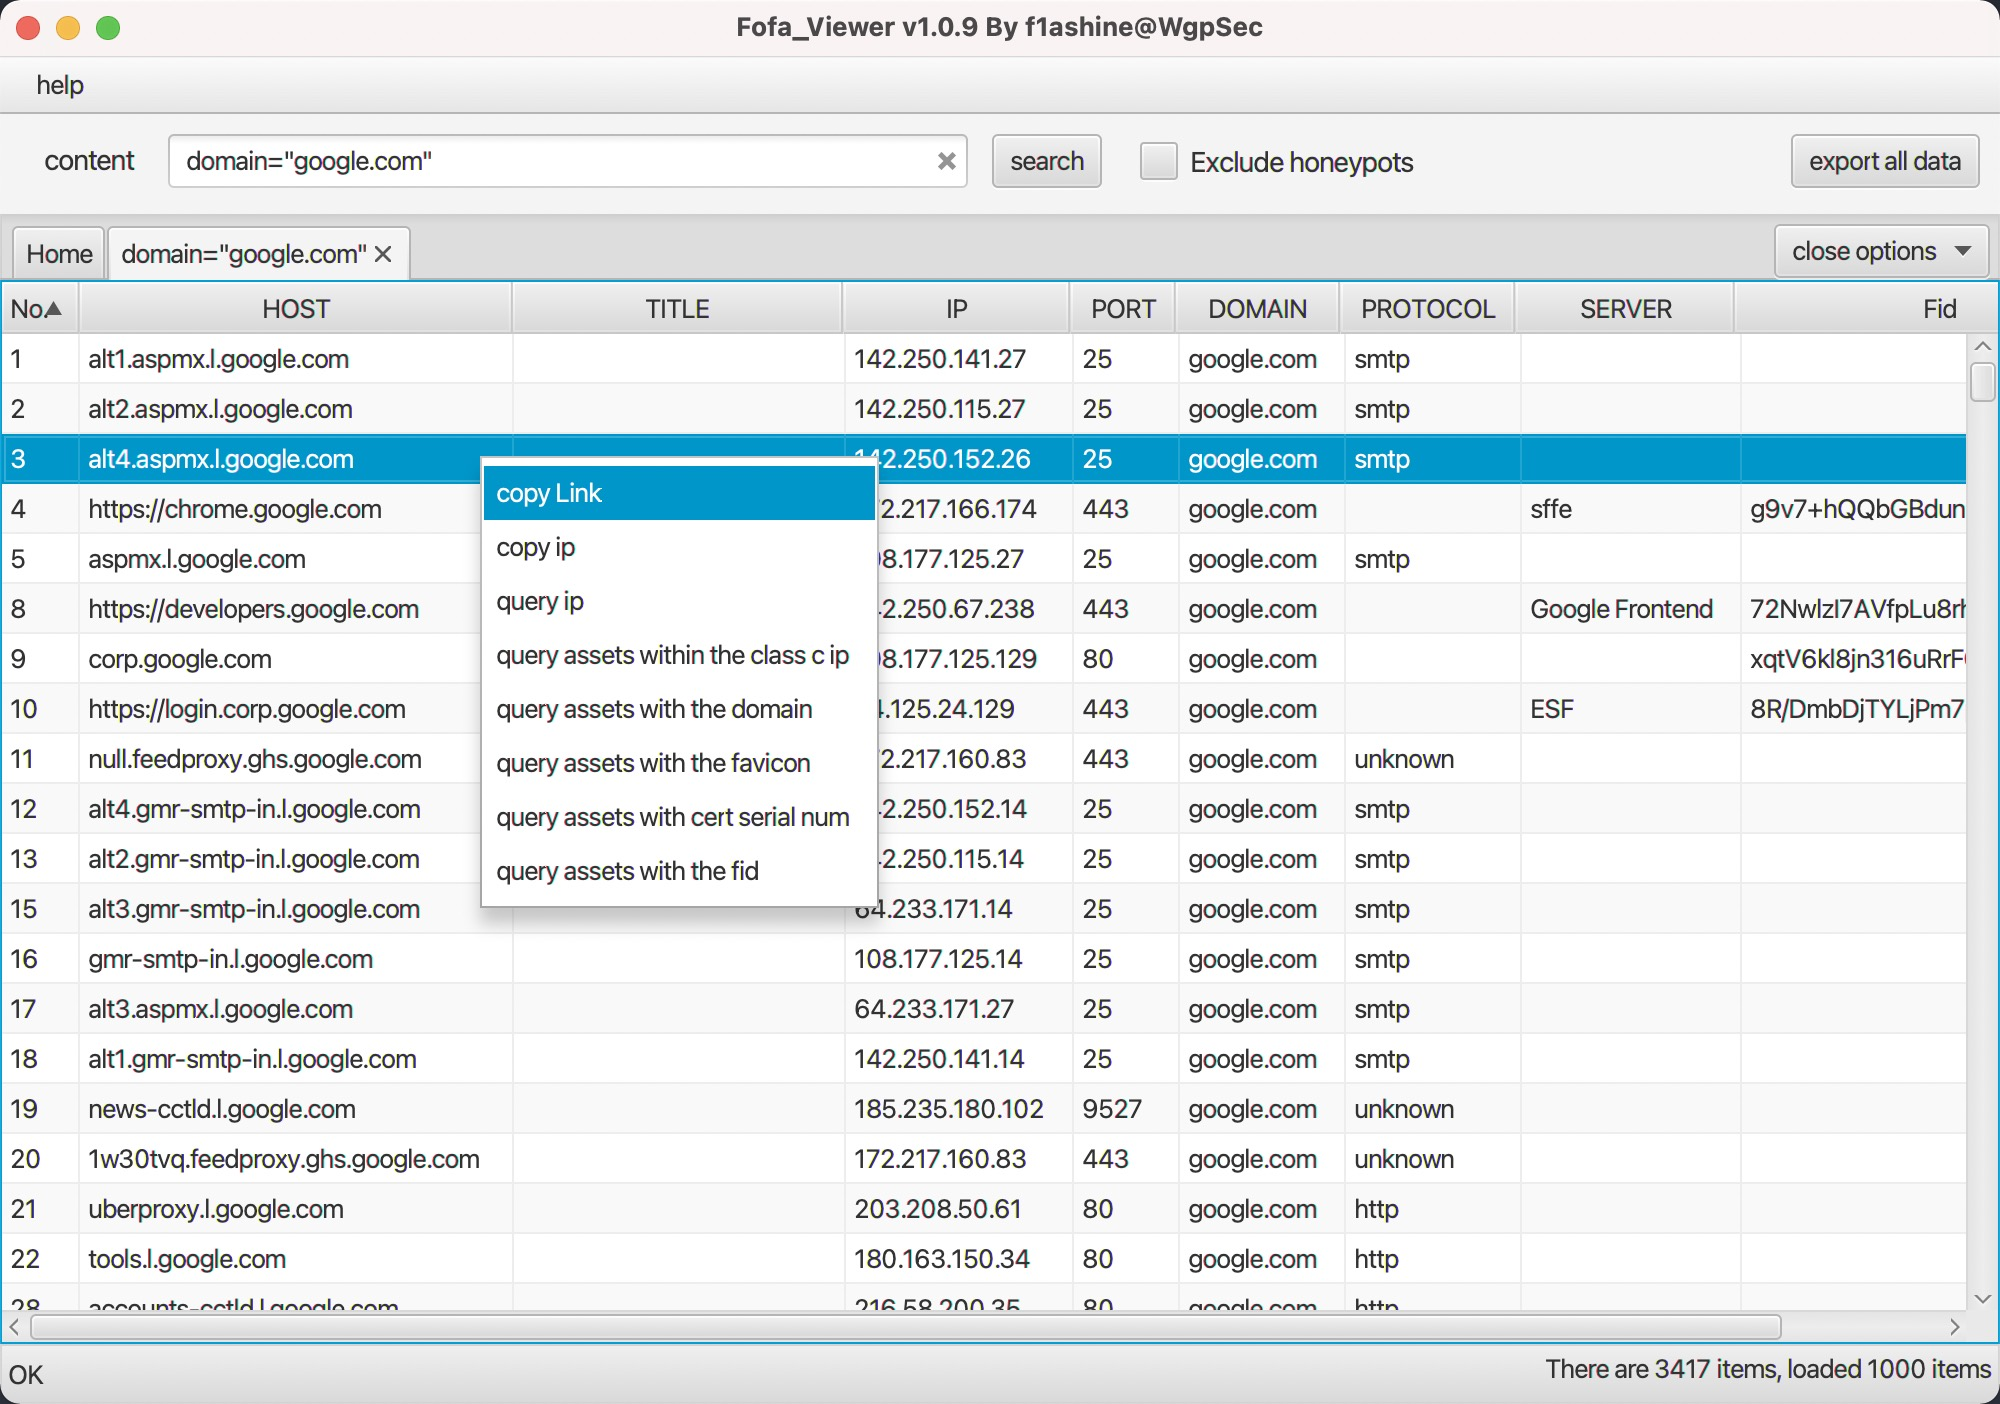
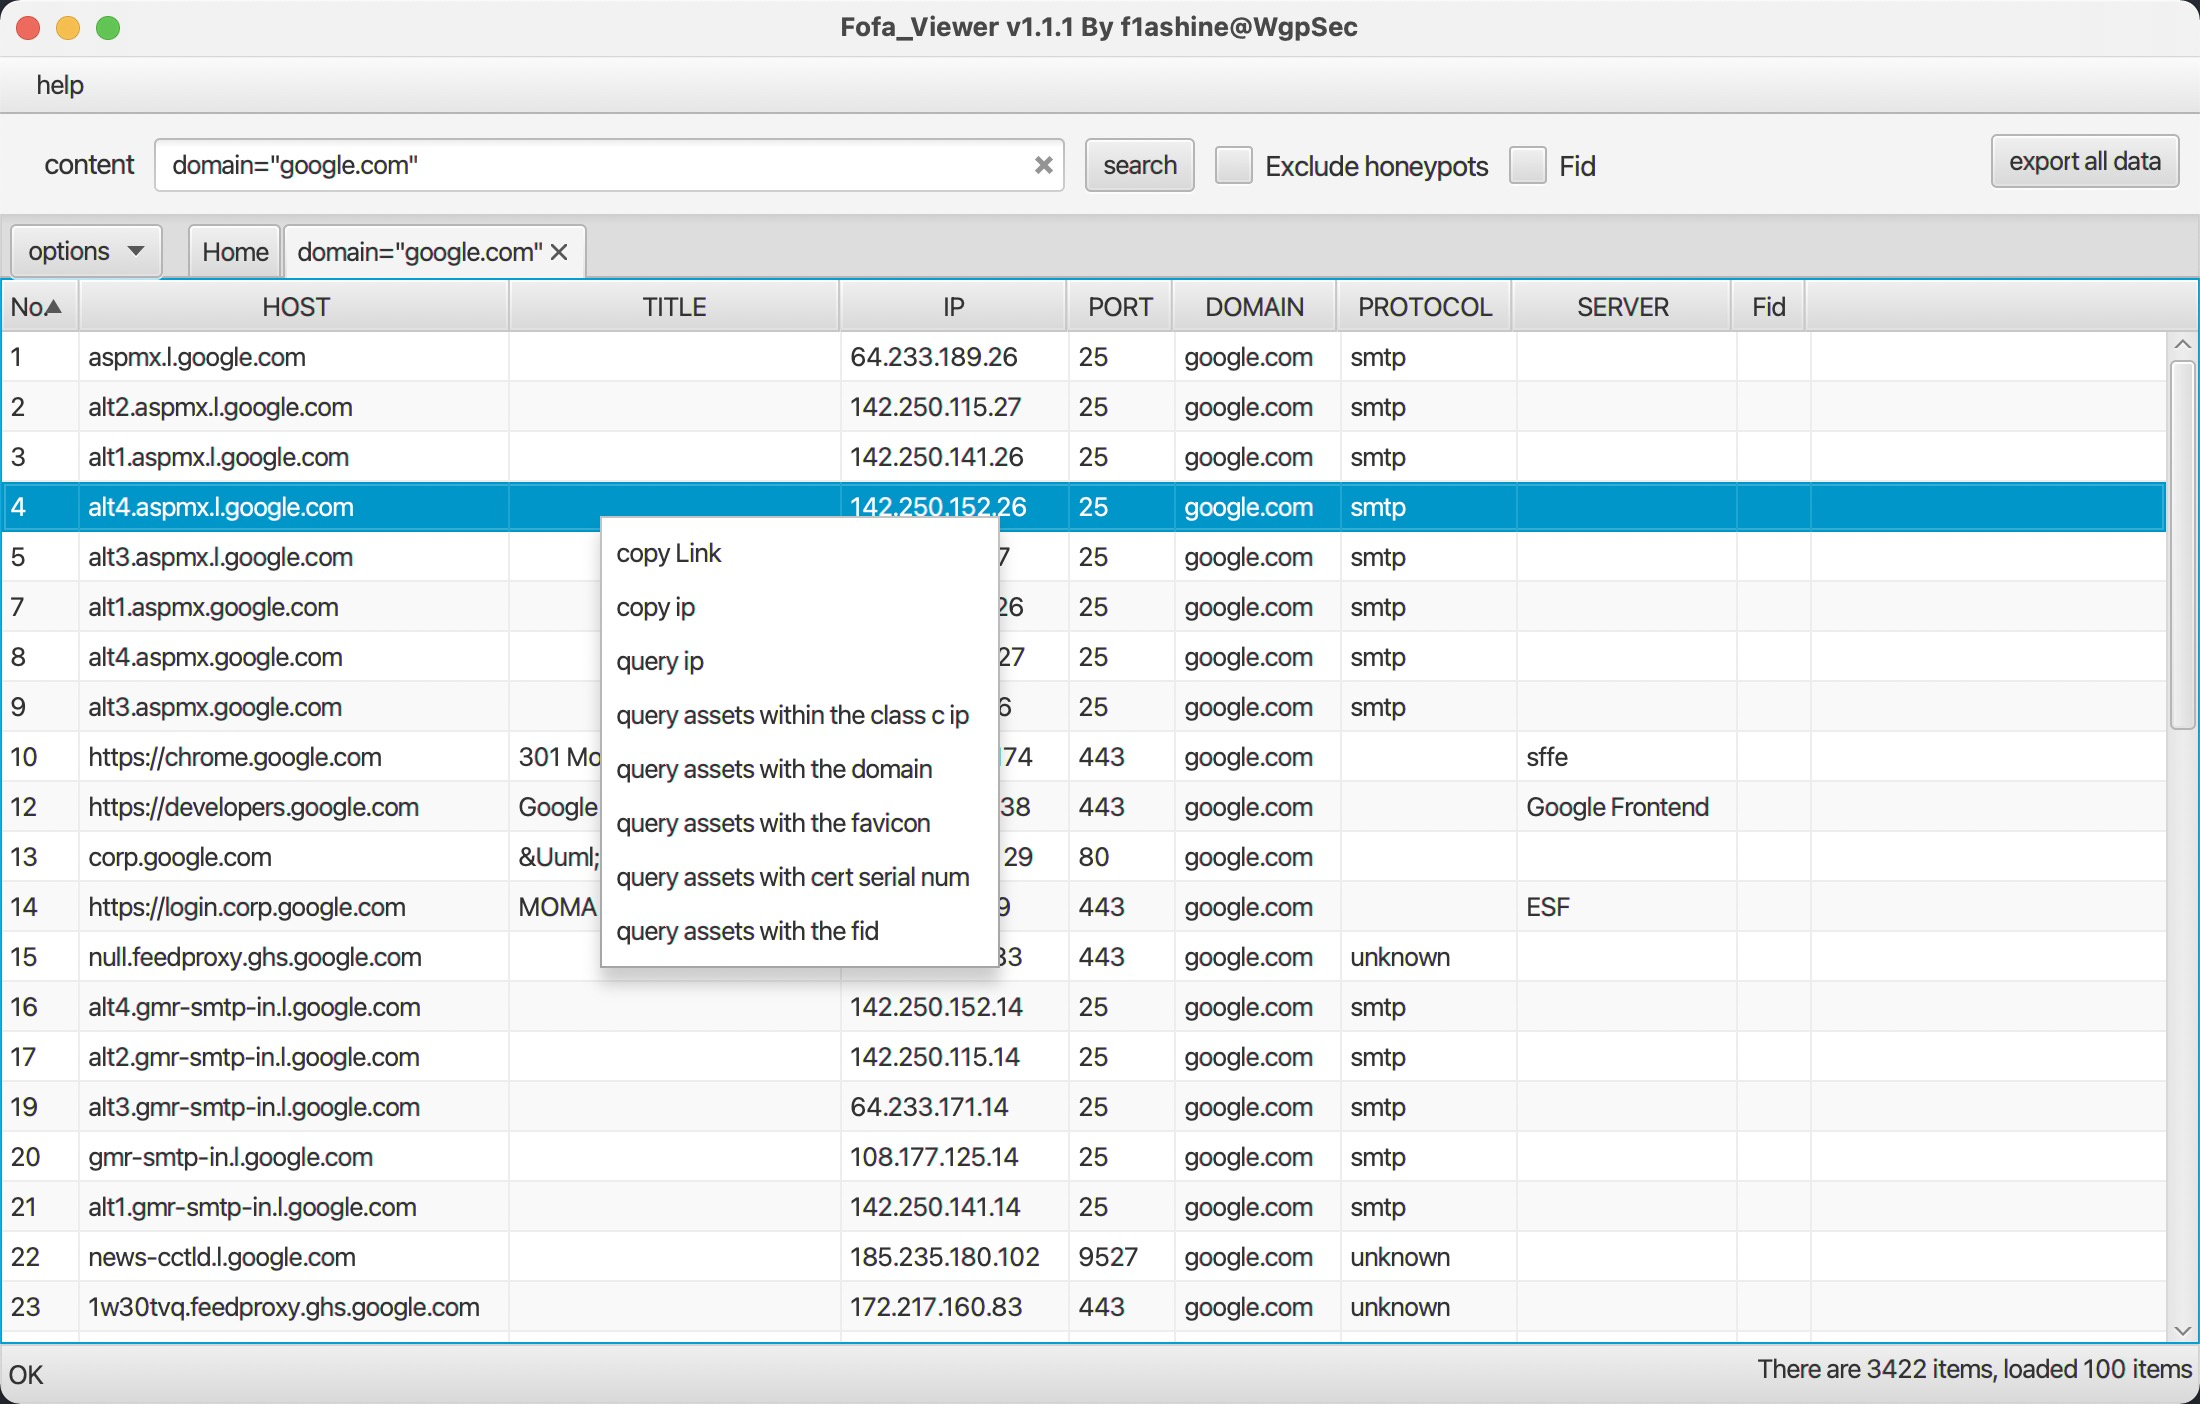
🐛修复一个fid引起的普通会员无法查询数据的bug

diff --git a/src/main/java/org/fofaviewer/main/MainController.java b/src/main/java/org/fofaviewer/main/MainController.java
@@ -78,6 +78,8 @@ public class MainController {
     @FXML
     private CheckBox checkHoneyPot;
     @FXML
+    private CheckBox withFid;
+    @FXML
     private CloseableTabPane tabPane;
     private AutoHintTextField decoratedField;
     private static final RequestHelper helper = RequestHelper.getInstance();
@@ -101,6 +103,7 @@ public class MainController {
         exportDataBtn.setText(resourceBundle.getString("EXPORT_BUTTON"));
         queryString.setText(resourceBundle.getString("QUERY_CONTENT"));
         checkHoneyPot.setText(resourceBundle.getString("REMOVE_HONEYPOTS"));
+        withFid.setText(resourceBundle.getString("WITH_FID"));
         decoratedField = new AutoHintTextField(queryTF);
         loadedLabel = new Label(resourceBundle.getString("QUERY_TIPS2"));
         tmpLabel = new Label(resourceBundle.getString("QUERY_TIPS3"));
@@ -114,6 +117,7 @@ public class MainController {
         TextField tf = TextFields.createClearableTextField();
         TextField favionTF = TextFields.createClearableTextField();
         Image image = new Image(Locale.getDefault().getLanguage().equals(Locale.CHINESE.getLanguage()) ? "api_doc_cn.png" : "api_doc_en.png");
+//        Image image = new Image("api_doc_en.png");
         ImageView view = new ImageView(image);
         ScrollPane scrollPane = new ScrollPane();
         scrollPane.setHbarPolicy(ScrollPane.ScrollBarPolicy.NEVER);
@@ -266,7 +270,7 @@ public class MainController {
                             for (int i = 1; i <= finalTotalPage; i++) {
                                 Thread.sleep(500);
                                 String text = replaceString(tab.getText());
-                                HashMap<String, String> result = helper.getHTML(client.getParam(String.valueOf(i))
+                                HashMap<String, String> result = helper.getHTML(client.getParam(String.valueOf(i), withFid.isSelected())
                                         + helper.encode(text), 50000, 50000);
                                 if (result.get("code").equals("200")) {
                                     JSONObject obj = JSON.parseObject(result.get("msg"));
@@ -277,7 +281,7 @@ public class MainController {
                                 } else if (result.get("code").equals("error")) {
                                     // 请求失败时 等待1s再次请求
                                     Thread.sleep(1000);
-                                    result = helper.getHTML(client.getParam(String.valueOf(i))
+                                    result = helper.getHTML(client.getParam(String.valueOf(i), withFid.isSelected())
                                             + helper.encode(text), 50000, 50000);
                                     if (result.get("code").equals("error")) {
                                         errorPage.append(i).append(" ");
@@ -378,7 +382,7 @@ public class MainController {
             this.tabPane.setCurrentTab(this.tabPane.getTab(text));
             return;
         }
-        RequestTask task = new RequestTask(client.getParam(null) + helper.encode(text), tabTitle);
+        RequestTask task = new RequestTask(client.getParam(null, withFid.isSelected()) + helper.encode(text), tabTitle);
         task.valueProperty().addListener((observable, oldValue, newValue) -> {
             HashMap<String, String> result = task.getValue();
             if (result != null) {
@@ -614,7 +618,7 @@ public class MainController {
                     bean.page += 1;
                     TableView<TableBean> tableView = (TableView<TableBean>) ((BorderPane) tab.getContent()).getCenter();
                     String text = replaceString(tab.getText());
-                    RequestTask task = new RequestTask(client.getParam(String.valueOf(bean.page))
+                    RequestTask task = new RequestTask(client.getParam(String.valueOf(bean.page), withFid.isSelected())
                             + helper.encode(text), null);
                     task.valueProperty().addListener((observable1, oldValue1, newValue1) -> {
                         HashMap<String,String> result = task.getValue();
@@ -663,7 +667,12 @@ public class MainController {
             int port = Integer.parseInt(_array.getString(4));
             String protocol = _array.getString(5);
             String server = _array.getString(6);
-            String fid = _array.getString(7);
+            String fid;
+            try{
+                fid =  _array.getString(7);
+            }catch(IndexOutOfBoundsException e){
+                fid = "";
+            }
             String _host = ip+":"+port;
 
             // 当 host 为带https的url时，尝试从证书中获取域名

diff --git a/src/main/java/org/fofaviewer/bean/FofaBean.java b/src/main/java/org/fofaviewer/bean/FofaBean.java
@@ -10,7 +10,8 @@ public class FofaBean {
     public String size = "1000";
     public static final String TIP_API = Locale.getDefault()==Locale.CHINA ? "https://api.fofa.so/v1/search/tip?q=" : "https://api.soall.org/v1/search/tip?q=";
     public static final String API = "https://fofa.so/api/v1/search/all";
-    public static final String fields = "host,title,ip,domain,port,protocol,server,fid";
+    public static final String fields = "host,title,ip,domain,port,protocol,server";
+    public static final String fid = "fid";
 
     public FofaBean(String m, String k) {
         this.email = m;
@@ -25,7 +26,8 @@ public class FofaBean {
         this.size = size;
     }
 
-    public String getParam(String page) {
+    public String getParam(String page, boolean hasFid) {
+        String fields = hasFid ? FofaBean.fields + "," +fid : FofaBean.fields;
         StringBuilder builder = new StringBuilder(API).append("?email=").append(email).append("&key=").append(key).append("&page=");
         if(page != null) {
             return builder.append(page).append("&size=").append(size).append("&fields=").append(fields).append("&qbase64=").toString();

diff --git a/src/main/java/org/fofaviewer/main/MainApp.java b/src/main/java/org/fofaviewer/main/MainApp.java
@@ -17,13 +17,13 @@ public class MainApp extends Application {
         FXMLLoader loader = new FXMLLoader(getClass().getResource("/fofa_viewer.fxml"));
         Scene scene = new Scene(loader.load());
         stage.setScene(scene);
-        stage.setTitle("Fofa_Viewer v1.1.0 By f1ashine@WgpSec");
+        stage.setTitle("Fofa_Viewer v1.1.1 By f1ashine@WgpSec");
         stage.show();
         // 设置窗口的最小宽度和高度，避免自由伸缩太小不方便看
         stage.widthProperty().addListener((o, oldValue, newValue)->{
-            if(newValue.intValue() < 1000.0) {
+            if(newValue.intValue() < 1100.0) {
                 stage.setResizable(false);
-                stage.setWidth(1000);
+                stage.setWidth(1100);
                 stage.setResizable(true);
             }
         });

diff --git a/src/test/java/Test.java b/src/test/java/Test.java
@@ -12,8 +12,9 @@ public class Test {
         FofaBean client = new FofaBean(properties.getProperty("email").trim(), properties.getProperty("key").trim());
         client.setSize(properties.getProperty("maxSize"));
         RequestHelper helper = RequestHelper.getInstance();
-        String a = "doamin=\"baidu.com\"";
-        String requestUrl = client.getParam(null) + helper.encode(a);
+        String a = "domain=\"baidu.com\"";
+        System.out.println(a);
+        String requestUrl = client.getParam(null, false) + helper.encode(a);
         System.out.println(requestUrl);
         System.out.println(helper.getHTML(requestUrl, 3000,5000));
     }

diff --git a/src/main/java/org/fofaviewer/utils/CertRequestUtil.java b/src/main/java/org/fofaviewer/utils/CertRequestUtil.java
@@ -4,7 +4,6 @@ import javafx.scene.control.TableView;
 import org.fofaviewer.bean.ExcelBean;
 import org.fofaviewer.bean.TableBean;
 import java.util.HashMap;
-import java.util.concurrent.CountDownLatch;
 import java.util.concurrent.ExecutorService;
 import java.util.concurrent.Executors;
 

diff --git a/README.en.md b/README.en.md
@@ -35,8 +35,9 @@ MacOS users can [Create a Automator Workflow](docs/mac.md) to pin Fofa_Viewer in
 4. Manually set max query count pre query for non-premium users (Change value of `maxSize` in `config.properties`)
 5. Fill hex certificate signature into homepage's toolbox to convert it to FOFA's decimal format. Use `cert="converted_value"` to match a certain SSL certificate. [Example (zh)](https://mp.weixin.qq.com/s/jBf9h6IQVja6WwFcSYEvKg)
 6. Input autocompletion
-7. Support FOFA's exclude fraud/honeypot feature (FOFA Premium Only, will mark a `(*)` in tab when active)
-8. FOFA grammar cheatsheet
+7. Support FOFA's exclude fraud/honeypot feature (Only for FoFa senior user, will mark a `(*)` in tab when active)
+8. Support Fid query (Only for FoFa senior user, need to check the box)
+9. FOFA grammar cheatsheet
 
 ![](docs/en/ui.png)
 ![](docs/en/search.jpg)

diff --git a/README.md b/README.md
@@ -43,8 +43,9 @@ VIP说明：https://fofa.so/static_pages/vip
 4. 支持手动修改查询最大条数，方便非高级会员使用(修改`config.properties`中的`maxSize`即可)
 5. 支持证书转换 将证书序列填写入启动页框内可转换，再使用 `cert="计算出来的值"` 语法进行查询 [具体例子](https://mp.weixin.qq.com/s/jBf9h6IQVja6WwFcSYEvKg)
 6. 支持输入智能提示
-7. 支持fofa的一键排除干扰（蜜罐）功能。（注：需要高级会员才能使用，使用时会在tab页标记`(*)`）
-8. 显示fofa官网的查询语法
+7. 支持fofa的一键排除干扰（蜜罐）功能。（注：需要高级会员，使用时会在tab页标记`(*)`）
+8. 支持Fid查询（注：需要高级会员，查询时需要勾选）
+9. 显示fofa官网的查询语法
 
 ![](docs/cn/ui.png)
 ![](docs/cn/search.jpg)
